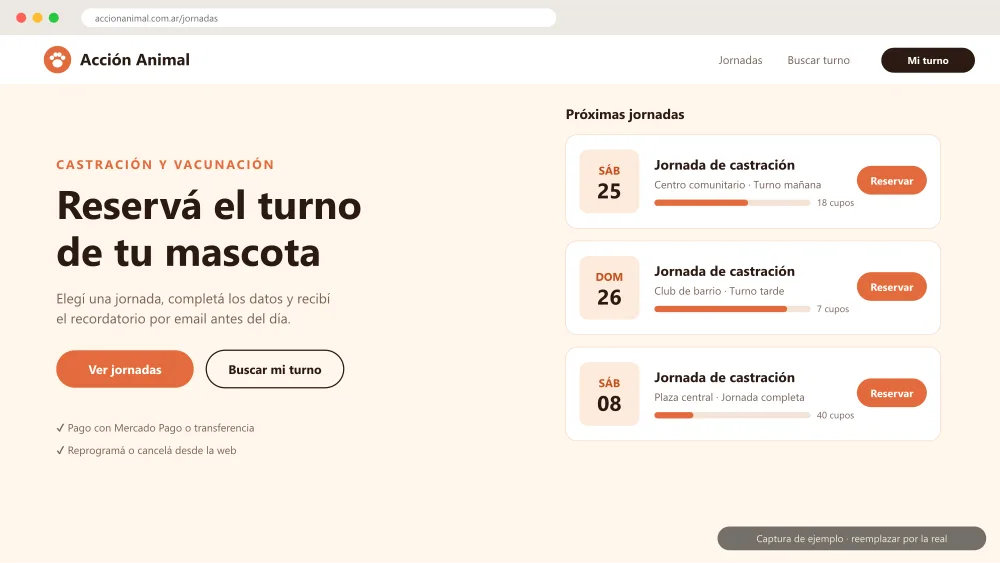
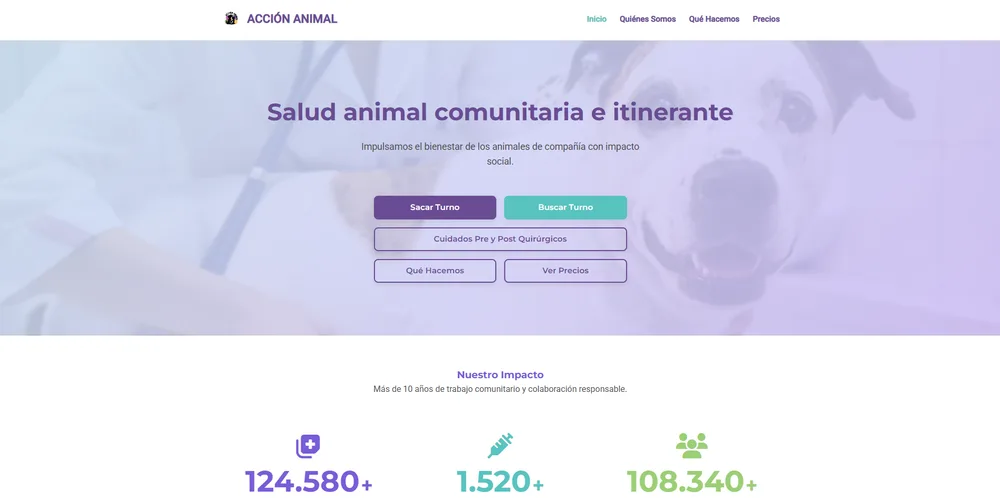
Capturas reales de Acción Animal, Castraciones y Portfolio
- Reemplaza las maquetas de ejemplo por capturas reales en WebP (1000px).
  Castraciones (vista angosta) se centra completa sobre el lila de su fondo.
- La demo del Portfolio y el README apuntan a rodrigoolivarez.netlify.app.

diff --git a/src/data/projects.ts b/src/data/projects.ts
@@ -1,5 +1,4 @@
-// Capturas: las de Acción Animal y Castraciones son maquetas de ejemplo.
-// Para usar las reales, reemplazá los archivos .webp con el mismo nombre (ideal: 1000px de ancho, 16:9).
+// Capturas reales en WebP (1000px de ancho). Para actualizarlas, reemplazá el archivo con el mismo nombre.
 import accionAnimalImg from '../assets/projects/accion-animal.webp';
 import castracionesImg from '../assets/projects/castraciones.webp';
 import portfolioImg from '../assets/projects/portfolio.webp';
@@ -60,7 +59,7 @@ export const PROJECTS: Project[] = [
     key: 'portfolio',
     category: 'side',
     image: portfolioImg,
-    url: 'https://portfolio-rodrigos-projects-28a435d7.vercel.app/',
+    url: 'https://rodrigoolivarez.netlify.app/',
     github: 'https://github.com/rodrigoolivarez/portfolio',
     tags: ['React', 'TypeScript', 'three.js', 'WebGL', 'styled-components', 'i18next'],
     status: 'orbit',

diff --git a/README.md b/README.md
@@ -3,7 +3,7 @@
 Portfolio personal de **Rodrigo Olivarez**, desarrollador web Full Stack (Buenos Aires, Argentina).
 Bilingüe (ES / EN), con modo claro/oscuro y un fondo animado de estrellas hecho a mano con Canvas API.
 
-🔗 **Demo:** https://portfolio-git-main-rodrigos-projects-28a435d7.vercel.app/
+🔗 **Demo:** https://rodrigoolivarez.netlify.app/
 
 ## Stack
 
@@ -67,9 +67,8 @@ Además de las vistas por sección, registra estos eventos:
 
 ## Capturas de proyectos
 
-Las imágenes de Acción Animal y Castraciones son maquetas de ejemplo.
-Para usar las reales, reemplazá `src/assets/projects/accion-animal.webp` y `castraciones.webp`
-con el mismo nombre (ideal: 1000px de ancho, proporción 16:9).
+Están en `src/assets/projects/` en WebP (1000px de ancho). Para actualizar una, reemplazá el archivo
+con el mismo nombre; el visor muestra la parte superior en proporción 16:9.
 
 ## Estructura
 
